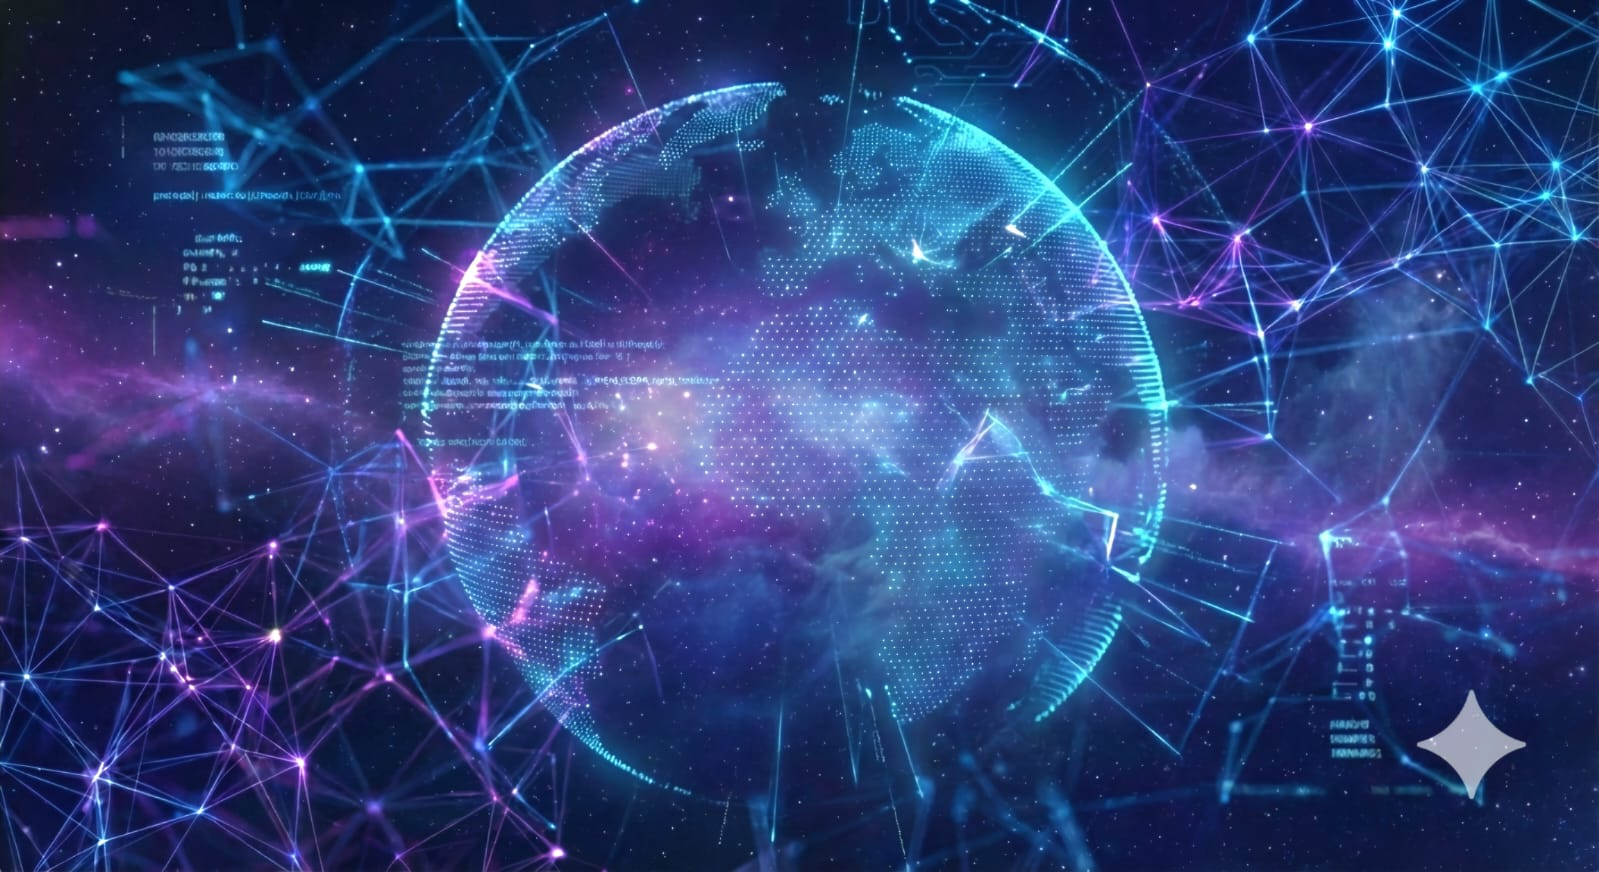
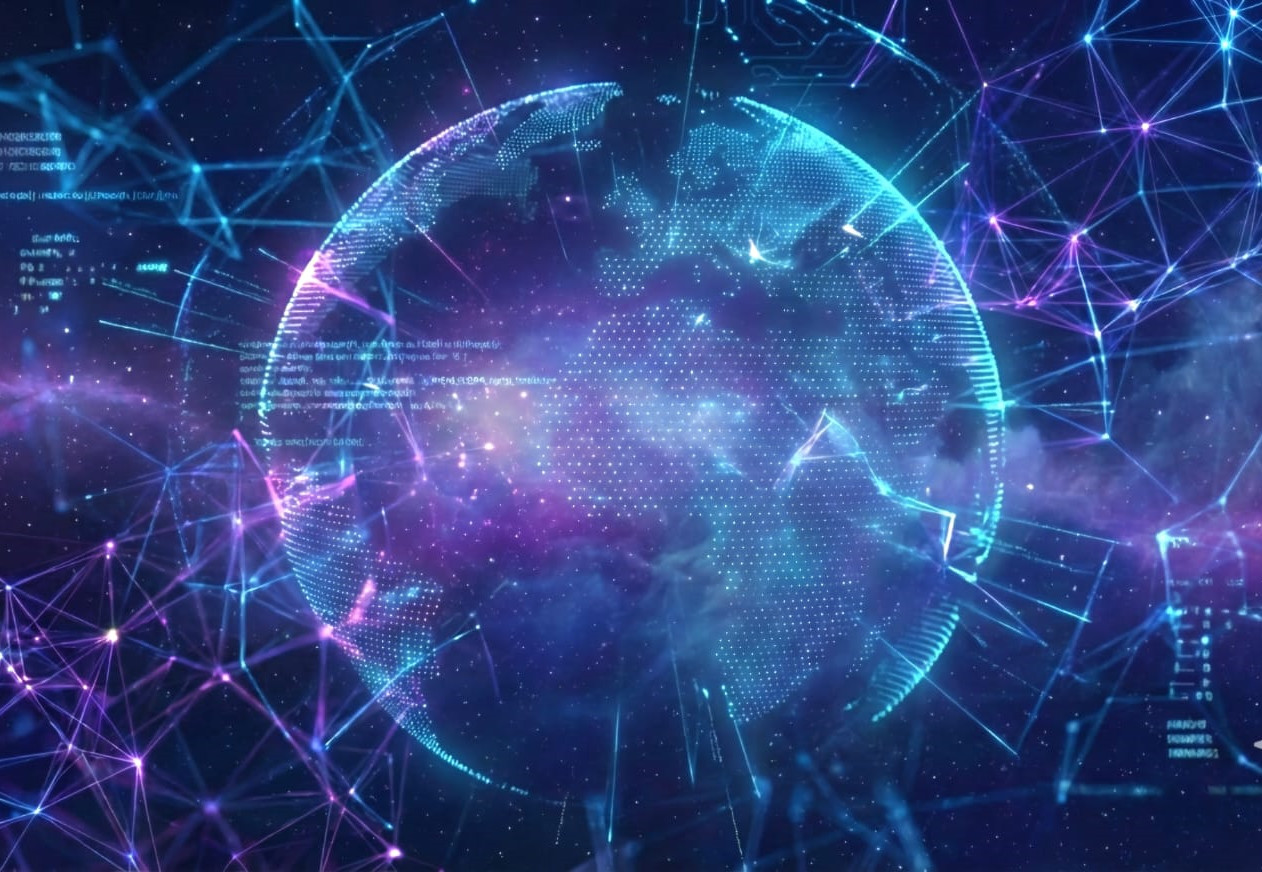
adding style

diff --git a/index.html b/index.html
@@ -7,10 +7,10 @@
     <title>TADASHI</title>
 </head>
 <body>
-    <center>
+   <!---- <center>
     <h1>T.A.D.A.S.H.I</h1>
     </center>
-     <p>The Thinking, Articulating, Decision-making, Adaptive, Self-learning, Heuristic, Intelligent System</p>
+     <p>The Thinking, Articulating, Decision-making, Adaptive, Self-learning, Heuristic, Intelligent System</p>-->
     <div class="login-box"> </div>
    
 </body>

diff --git a/style.css b/style.css
@@ -3,8 +3,12 @@
     padding: 0;
 }
 .login-box {
-    background-image: url("login_image.jpeg");
+    background-image: url("login_image.png");
     background-size: cover;
-    height: 500px;
+    height: 610px;
     width: 100%;
+    display: flex;
+    justify-content: center;
+    align-items: flex-end;
+
 }
